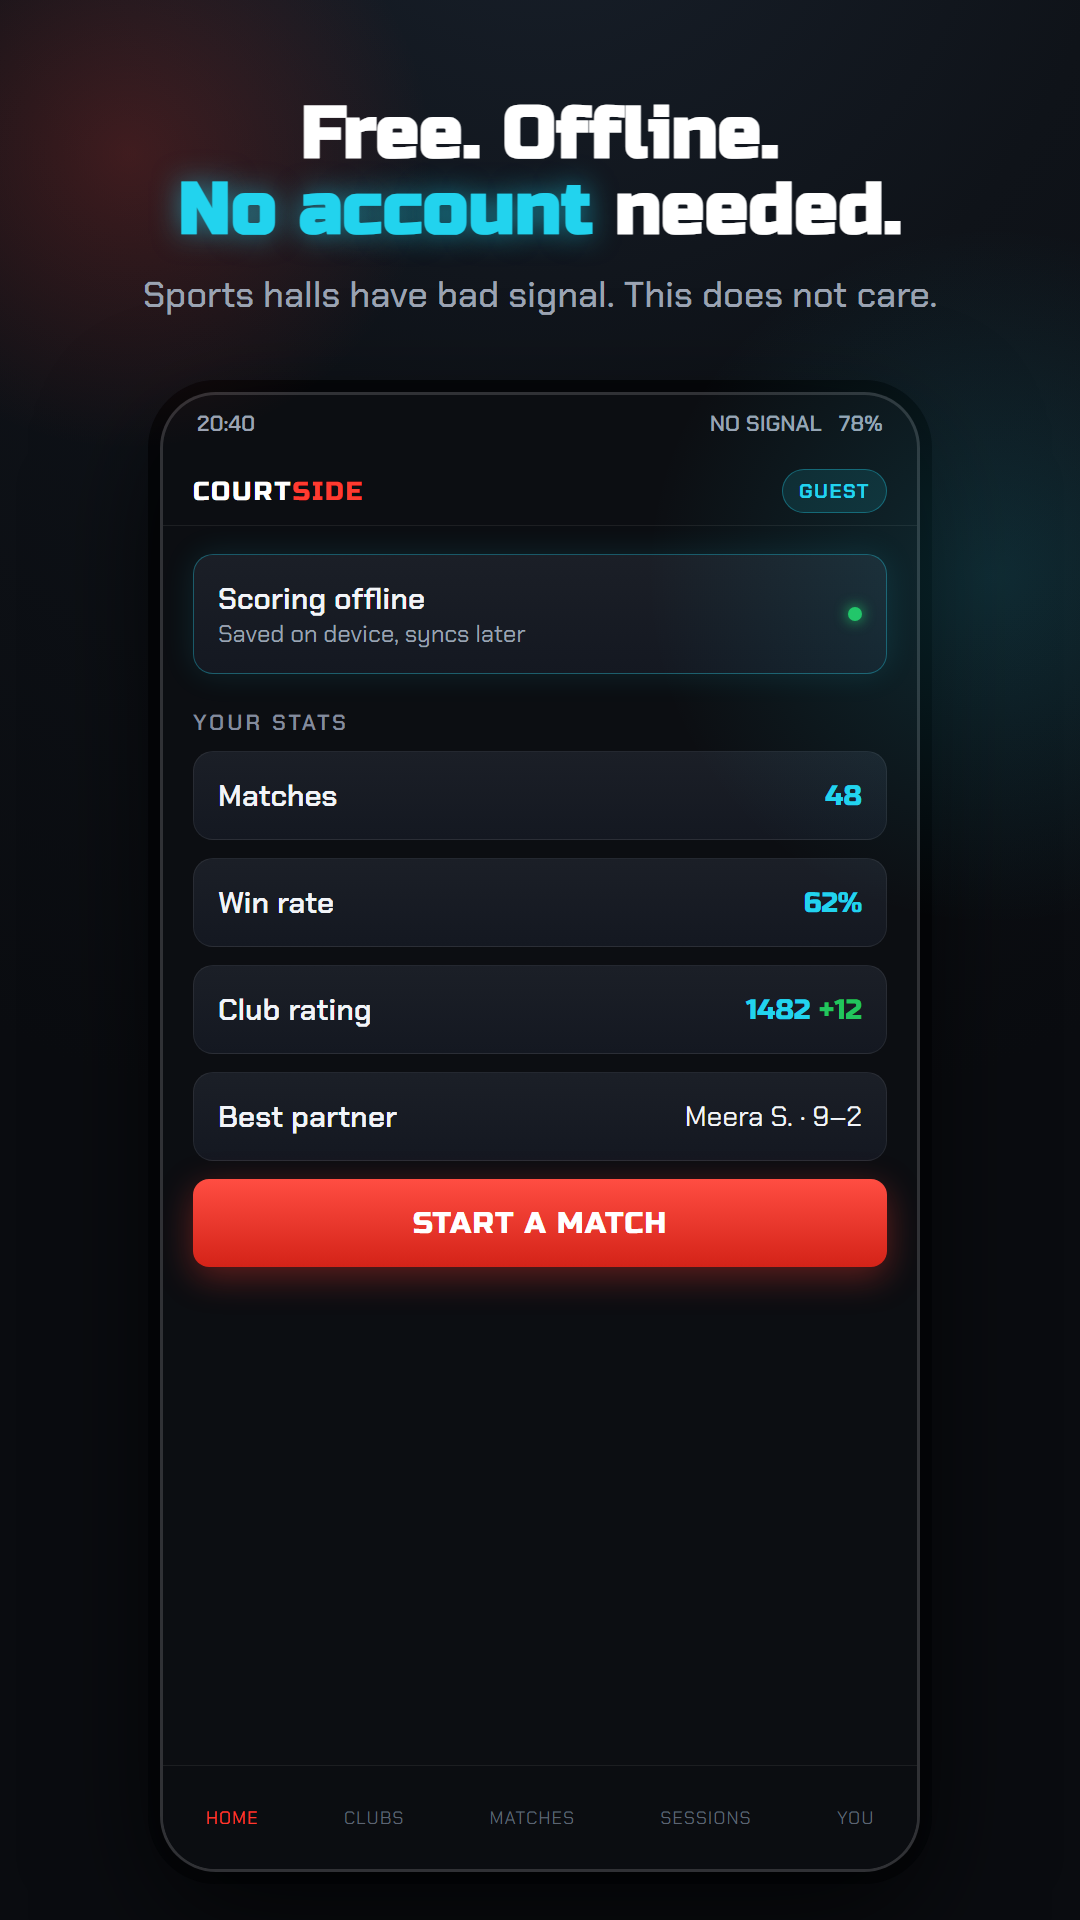
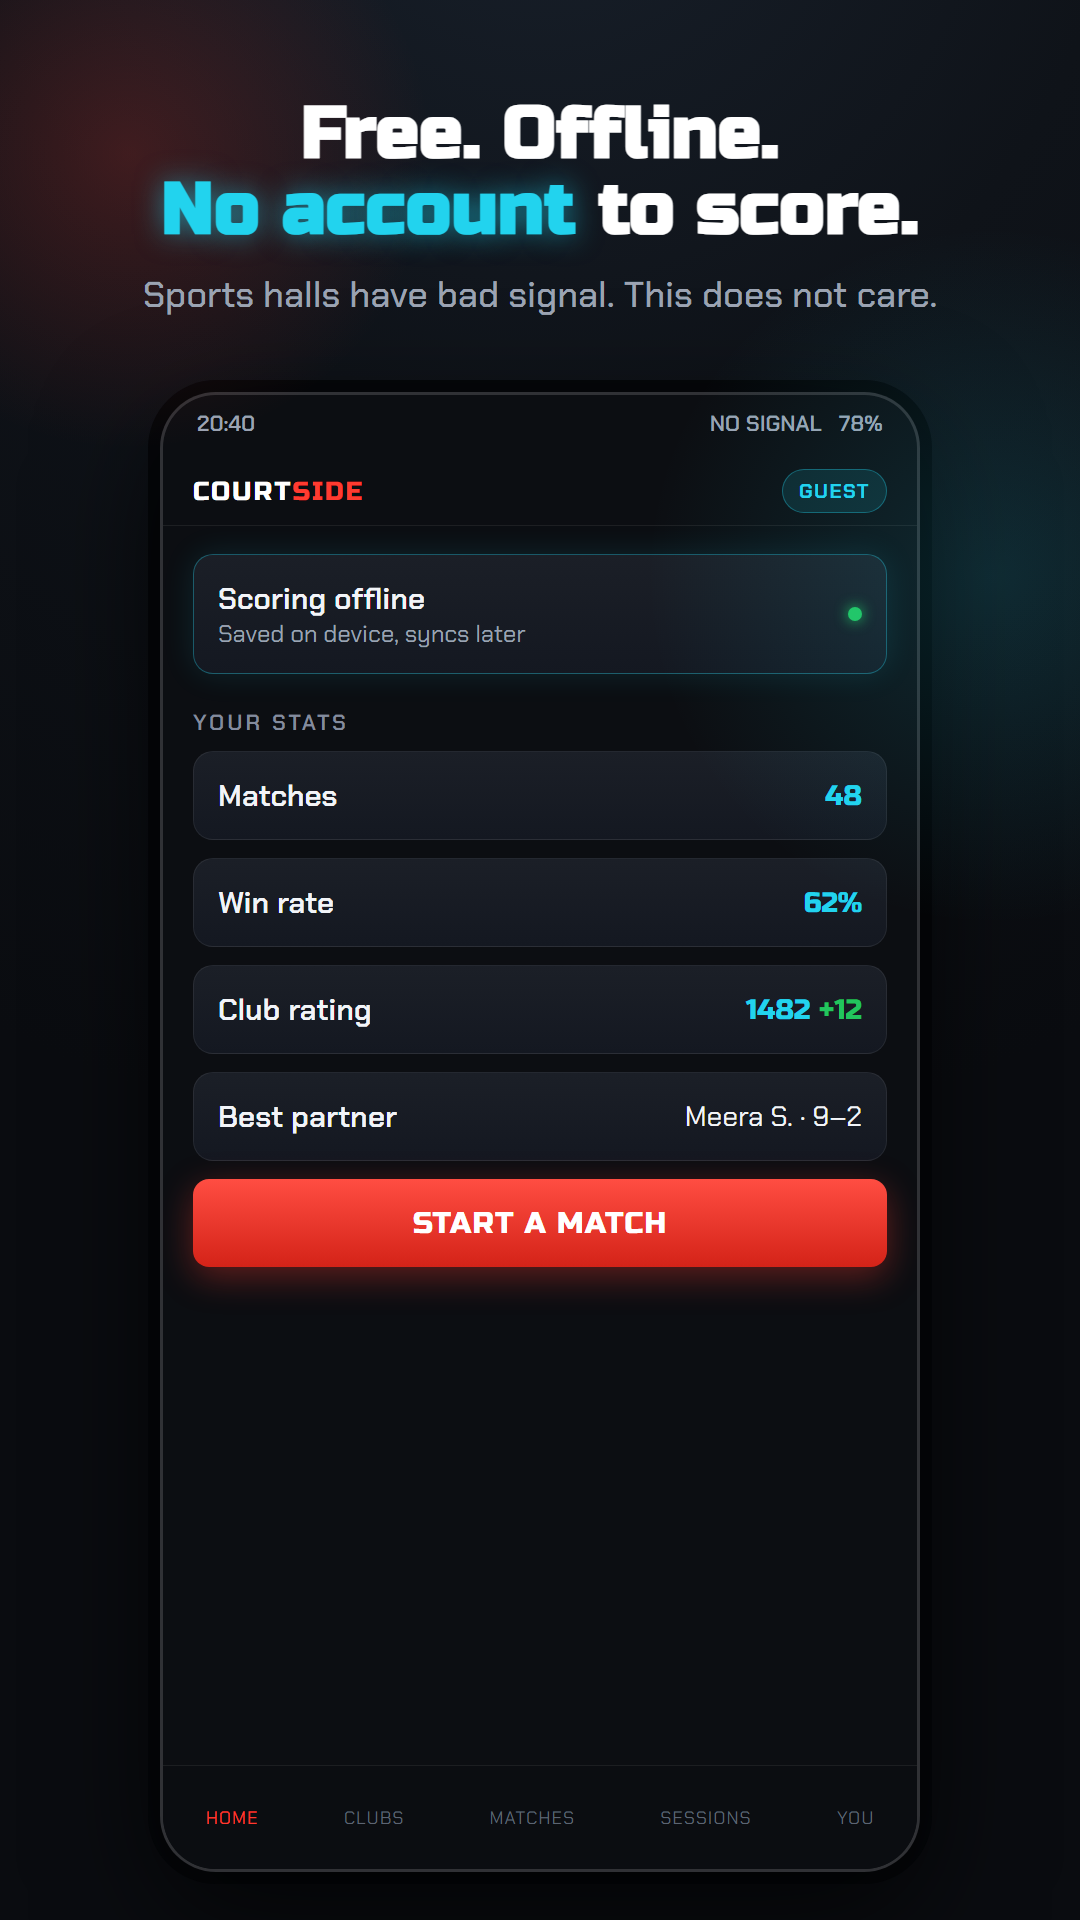
fix(store): stop the offline screenshot claiming no account is needed
screenshot-08's caption read "Free. Offline. No account needed." That was
true of the build the asset was first written for, but clubs, sessions and
tournaments all require an account now — only quick match and spectating
work without one. Shipping it would have put a claim on the Play listing
that the app does not honour, the same inaccuracy already corrected in the
full description ("No account required to start scoring").

Caption is now "Free. Offline. No account to score." — which is what the
screen behind it actually shows: a guest scoring offline.

assets.html is the source; screenshot-08.png re-rendered from it at
1080x1920 via chrome-headless-shell with ?s=s8.

Noted while re-rendering, not changed: the mock shows a "Club rating" row
on a screen with a GUEST pill, which a real guest would not have.

Changed region(s): [[0.1222, 0.0938, 0.8556, 0.125]]

diff --git a/docs/store-assets/assets.html b/docs/store-assets/assets.html
@@ -221,7 +221,7 @@ radial-gradient(44% 70% at 86% 18%,rgba(34,211,238,.20),transparent 70%)}
 </div><div class="foot">COURTSIDE</div></div></div>
 
 <div class="screen" id="s8"><div class="shot">
-<div class="cap"><h1>Free. Offline.<br><em>No account</em> needed.</h1><p>Sports halls have bad signal. This does not care.</p></div>
+<div class="cap"><h1>Free. Offline.<br><em>No account</em> to score.</h1><p>Sports halls have bad signal. This does not care.</p></div>
 <div class="phone">
  <div class="sb"><span>20:40</span><span>NO SIGNAL &nbsp; 78%</span></div>
  <div class="hd"><div class="wm">COURT<i>SIDE</i></div><div style="margin-left:auto" class="pill cy">Guest</div></div>
